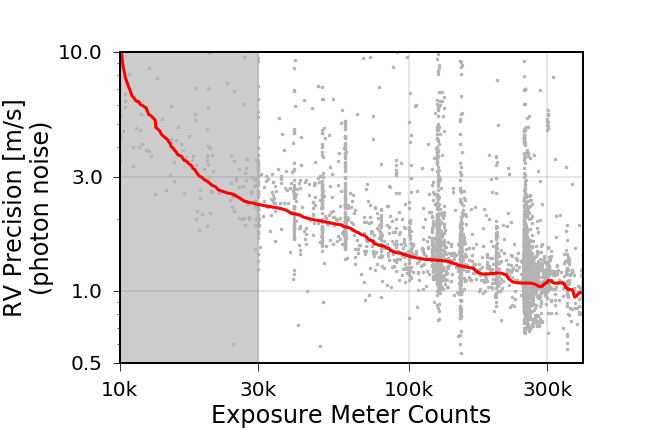
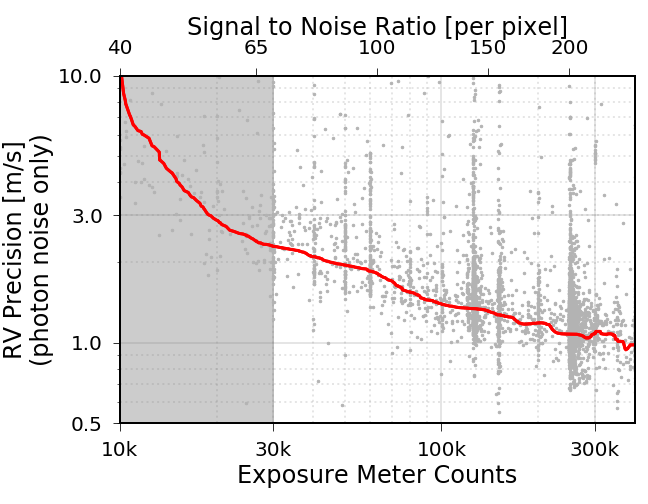
added snr plot

diff --git a/sphinx/performance.rst b/sphinx/performance.rst
@@ -12,7 +12,18 @@ a study comparing the velocities output by the NExScI HIRES-PRV pipeline to arch
 Precision vs. Signal to Noise
 =============================
 
-Consult the plot below when considering
+Consult the plot below when considering exposure times needed to achieve a desired RV precision. This does not
+factor in any additional sources of instrumental and/or astrophysical noise.
+
+.. figure:: _static/snr_vs_err.png
+    :width: 50%
+    :align: center
+    :alt: radial velocity fit
+
+    Photon-limited single measurement precision as a function of exposure meter setting and signal to noise ratio.
+    The red line traces the lower 30th percentile of the individual measurements shown in grey. Signal to noise ratios
+    below 70 (indicated with grey shading) are not officially supported by the pipeline and may produce erratic results.
+
 
 
 RV Standard Stars

diff --git a/sphinx/setup.rst b/sphinx/setup.rst
@@ -224,6 +224,7 @@ Target Lists
 Create your target list during the day and upload to the Keck computers. Your SA can help you upload.
 
 * Make a "script" for the full night of observations following the `Keck guidelines <https://www2.keck.hawaii.edu/observing/starlist.html>`_
+* Consult the plot on the :ref:`RV performance page <performance>` when considering exposure times and signal to noise ratios
 * Inform the operator of the path to your script you will use and ask them to load it into MAGIQ.
 * Once the OA has loaded the list, click on 'Map OA starlist' from dropdown on MAGIQ (Useful for planning observations.)
 * Use the middle mouse button to highlight the next target to observe.
